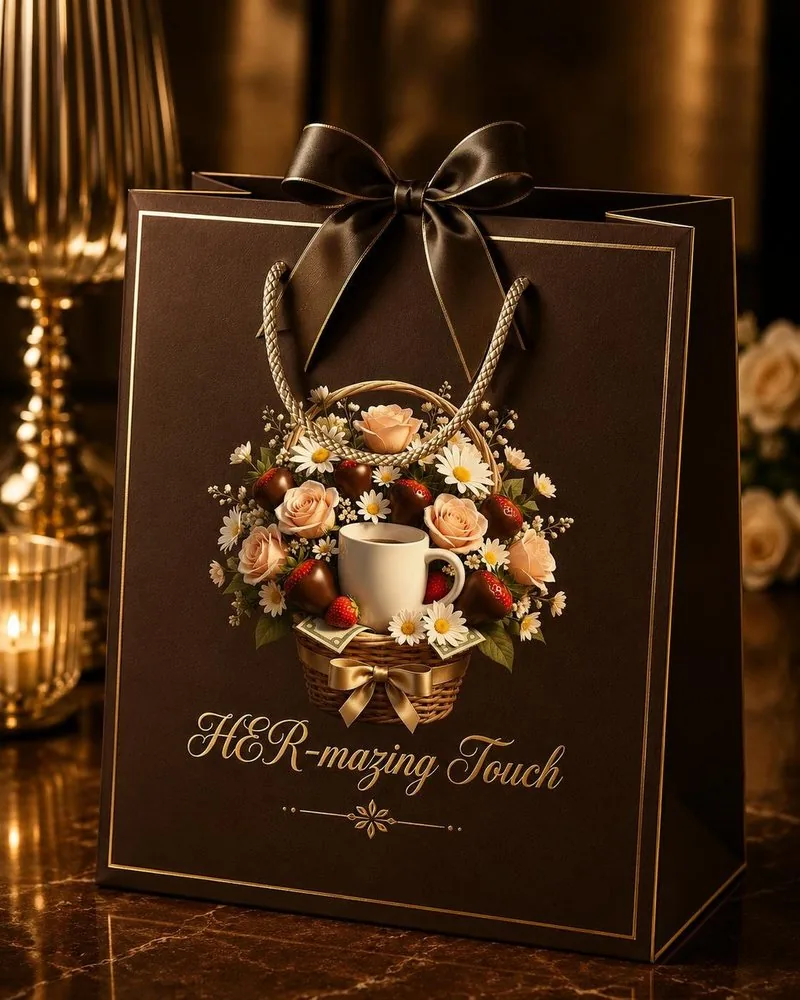
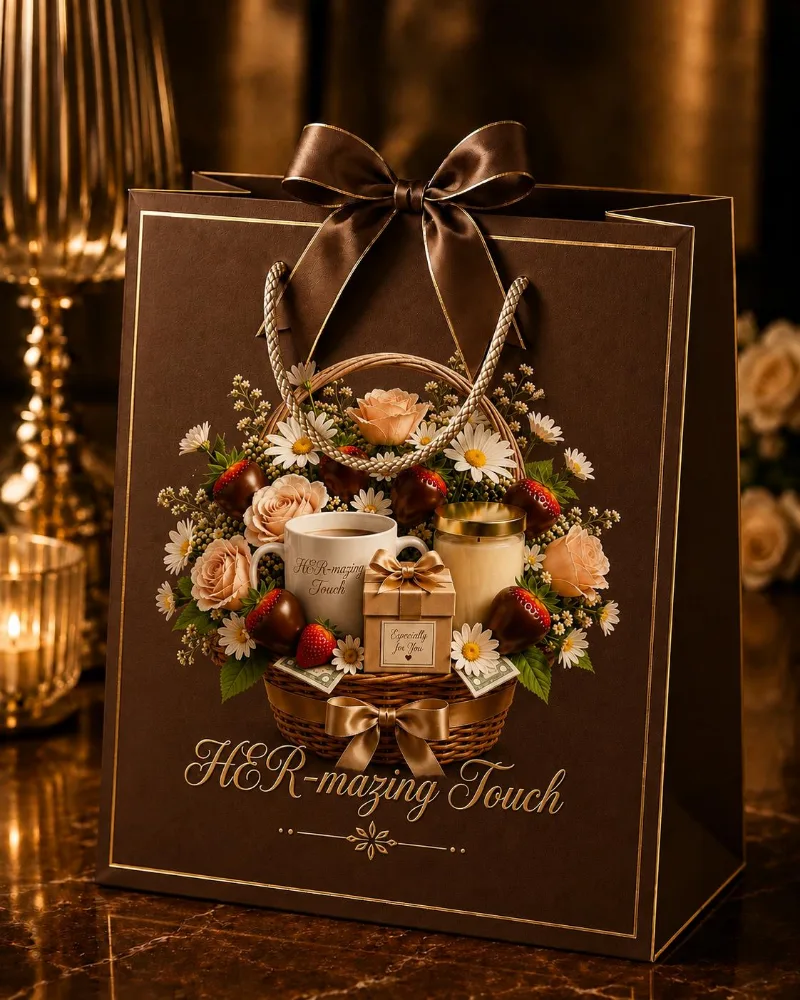
Update the signature packaging photo to the current bag render
The packaging section still showed an earlier render of the bag: plain mug,
no candle, no "Especially for You" box and a sparser bouquet. It no longer
matched the basket artwork now carried by the hero, the header and the
footer, so the two halves of the page were advertising different products.

Supplied as gift-bag.jpg and re-encoded to WebP at the same 800x1000 the slot
already declared. Quality 0.82 holds the fine gold lettering and the card on
the little box at 114KB, close to the 96KB it replaces; 1000px wide came to
225KB for detail the slot never renders, since the photo is half a
two-column grid and capped at 460px on phones.

Alt text updated — it described the old render.

diff --git a/index.html b/index.html
@@ -413,7 +413,7 @@
     <section class="band band-ivory packaging">
       <div class="wrap packaging-grid">
         <figure class="packaging-photo reveal">
-          <img src="images/gift-bag.webp?v=9798be49" alt="HER-mazing Touch signature gift bag — deep brown with gold trim, satin bow and the brand basket crest" width="800" height="1000" loading="lazy">
+          <img src="images/gift-bag.webp?v=b1" alt="HER-mazing Touch signature gift bag — deep brown with gold-foil trim, a hand-tied satin bow and the brand basket crest printed on the front" width="800" height="1000" loading="lazy">
         </figure>
         <div class="packaging-copy reveal" data-delay="2">
           <p class="eyebrow dark">Signature Packaging</p>
